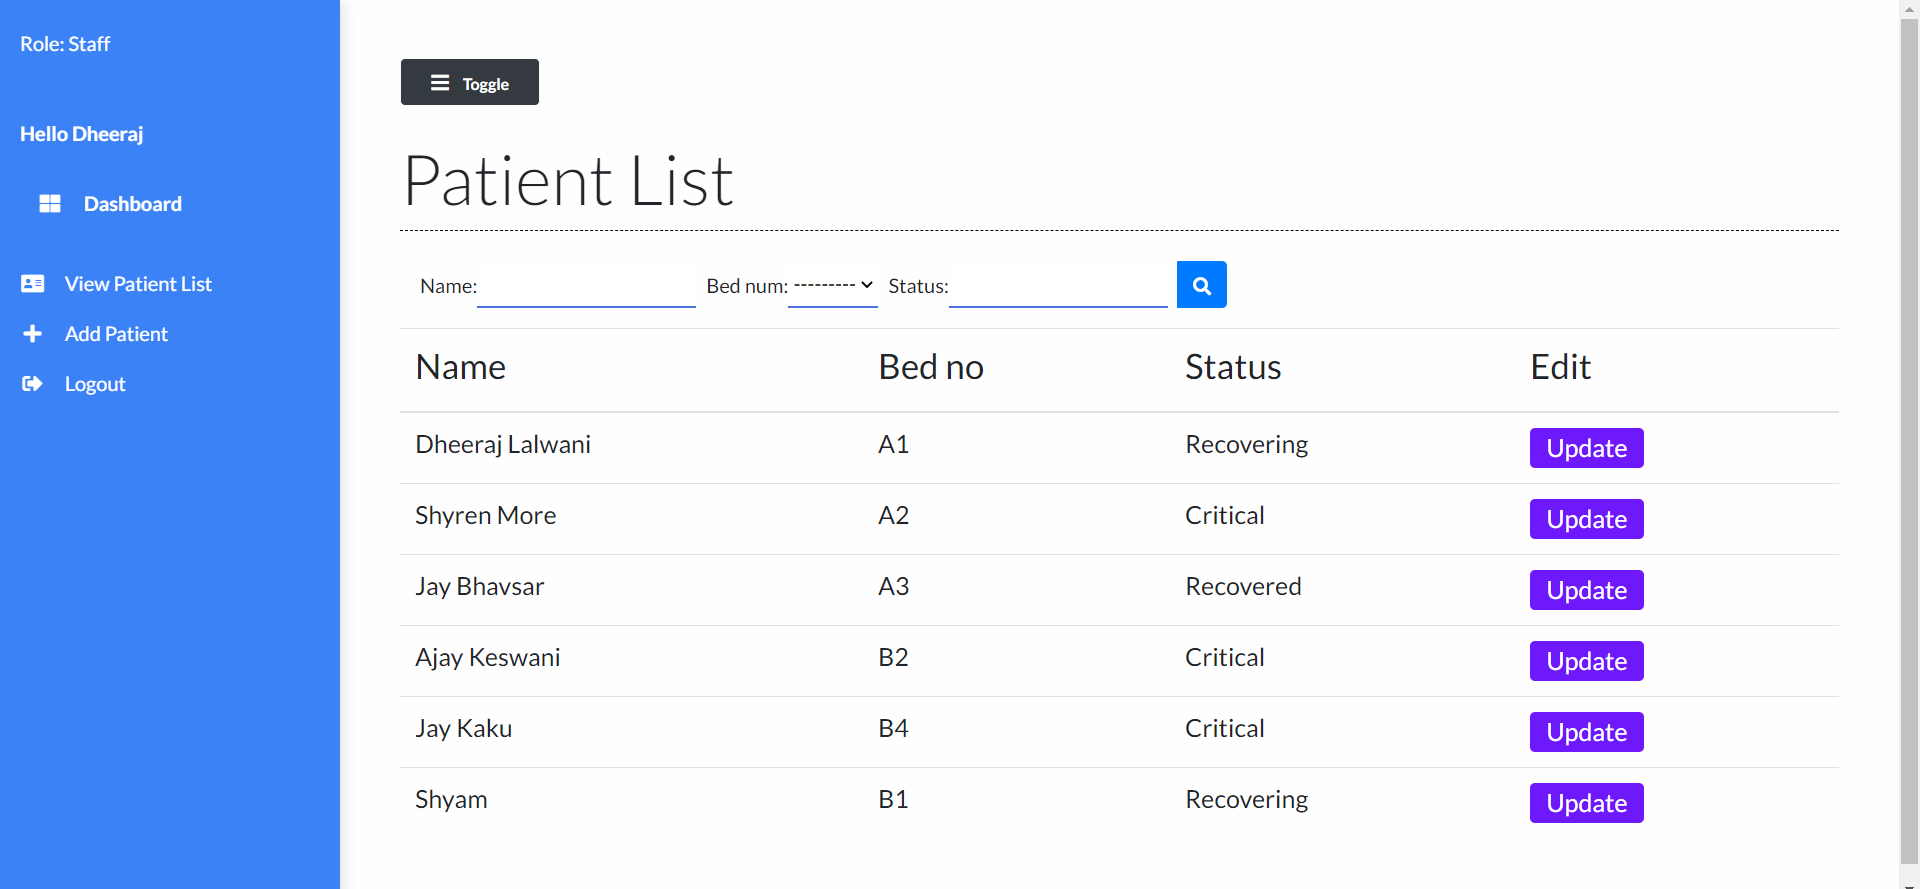
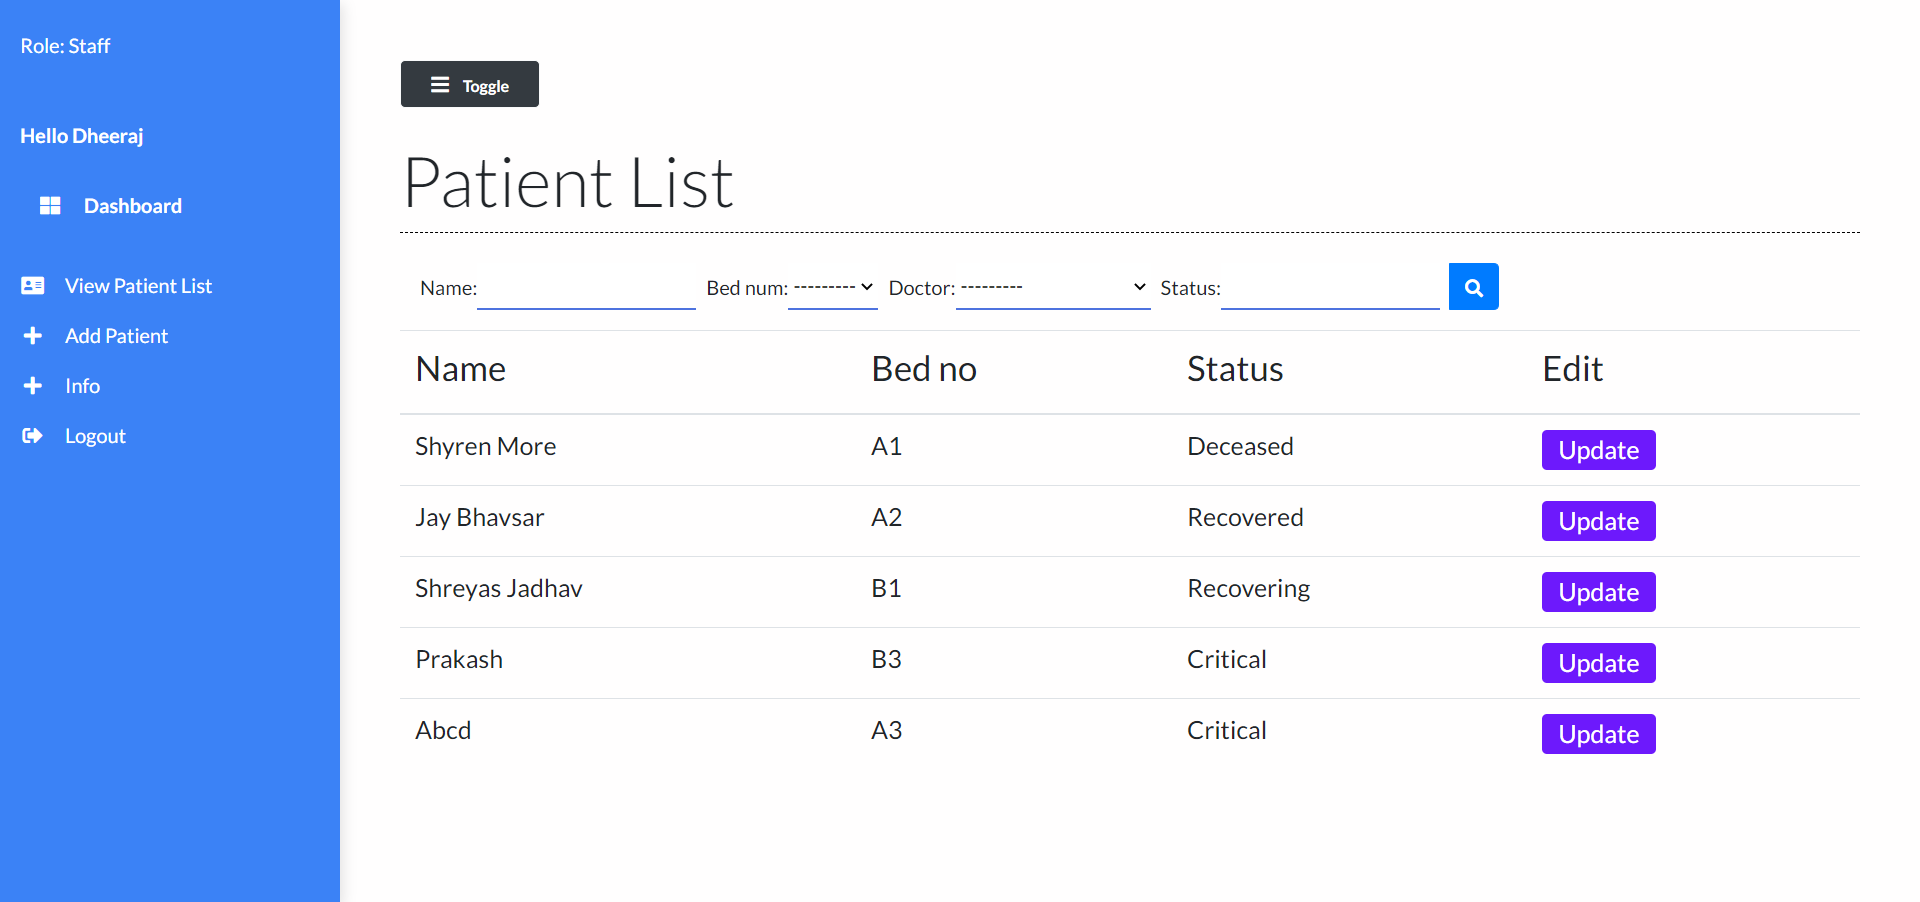
Add view patient list

diff --git a/README.md b/README.md
@@ -29,7 +29,11 @@
 
 ## *login*
 ![](https://github.com/ShyrenMore/CodersLegion/blob/master/screenshots/login_form.PNG)
-<h3>The login is only for staff members and admin who will enter staff details in database</h3>
+<p>The login is only for staff members and admin who will enter staff details in database</p>
+
+## *View Patient list*
+![](https://github.com/ShyrenMore/CodersLegion/blob/master/screenshots/patient_list.PNG)
+<p>The name, bed no, status, and update option are rendered, there is also a typeahead feature and dropdown for bed numbers and doctors in the search panel</p>
 
 
 
